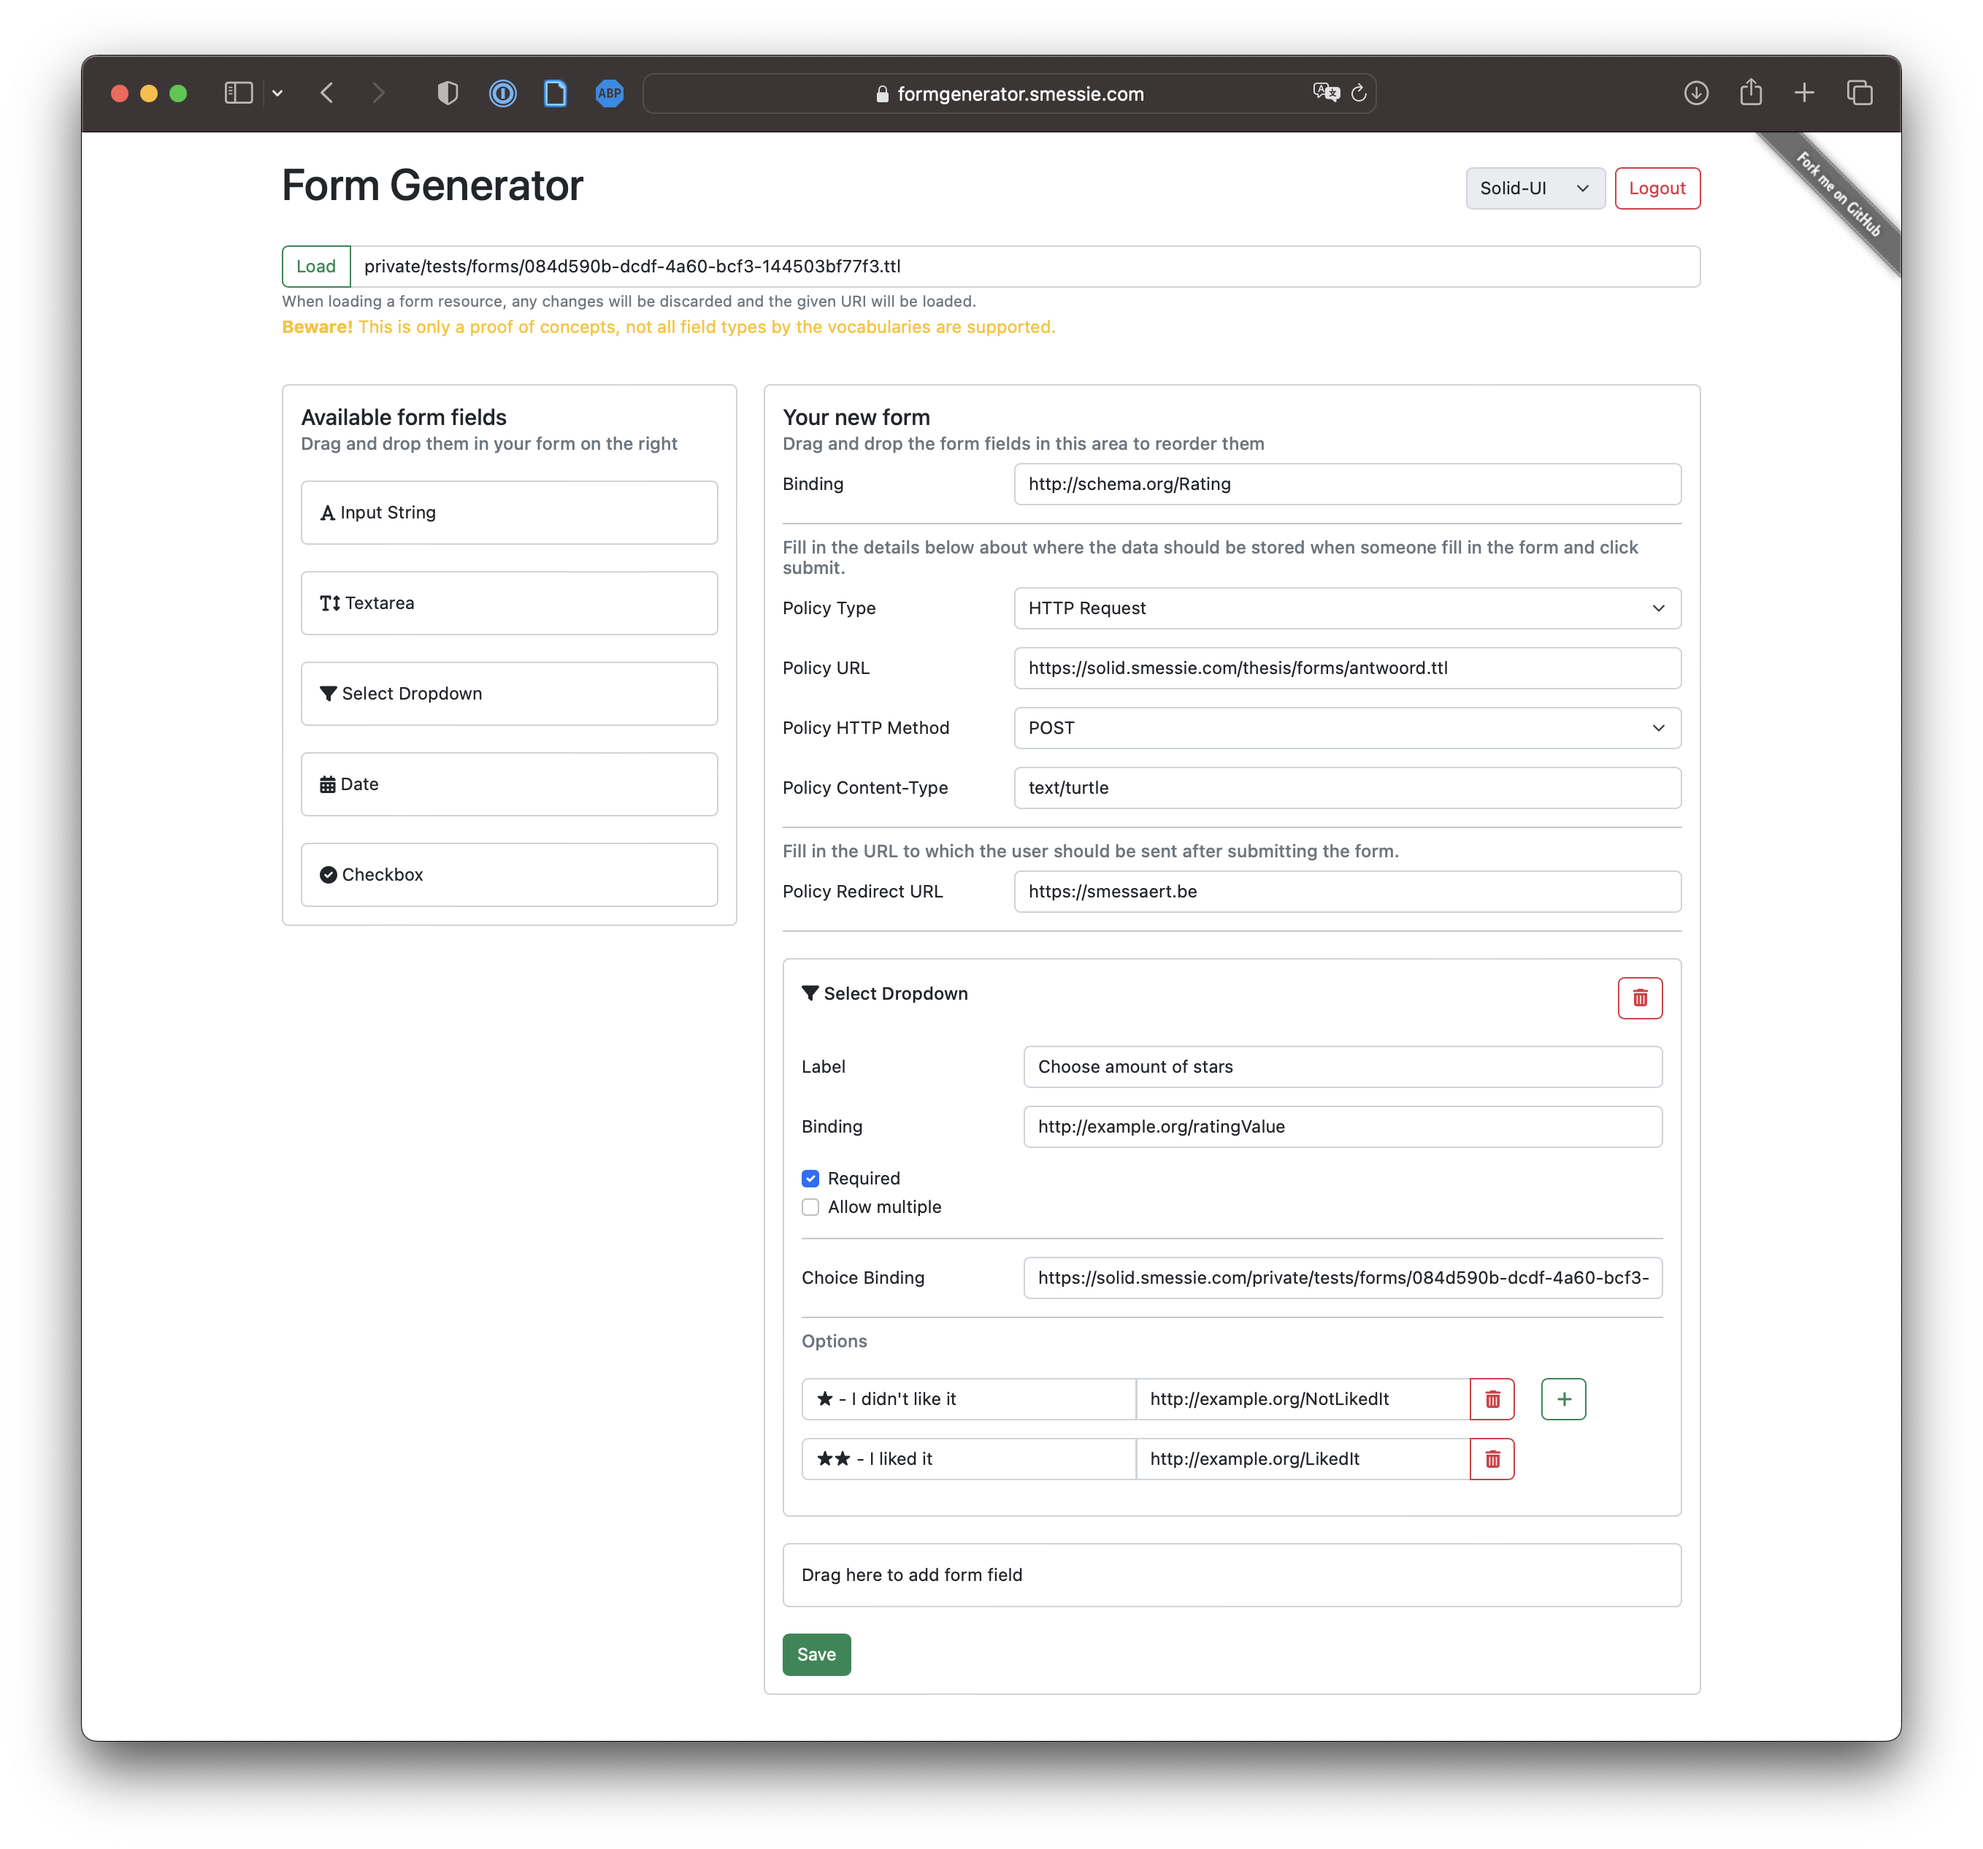
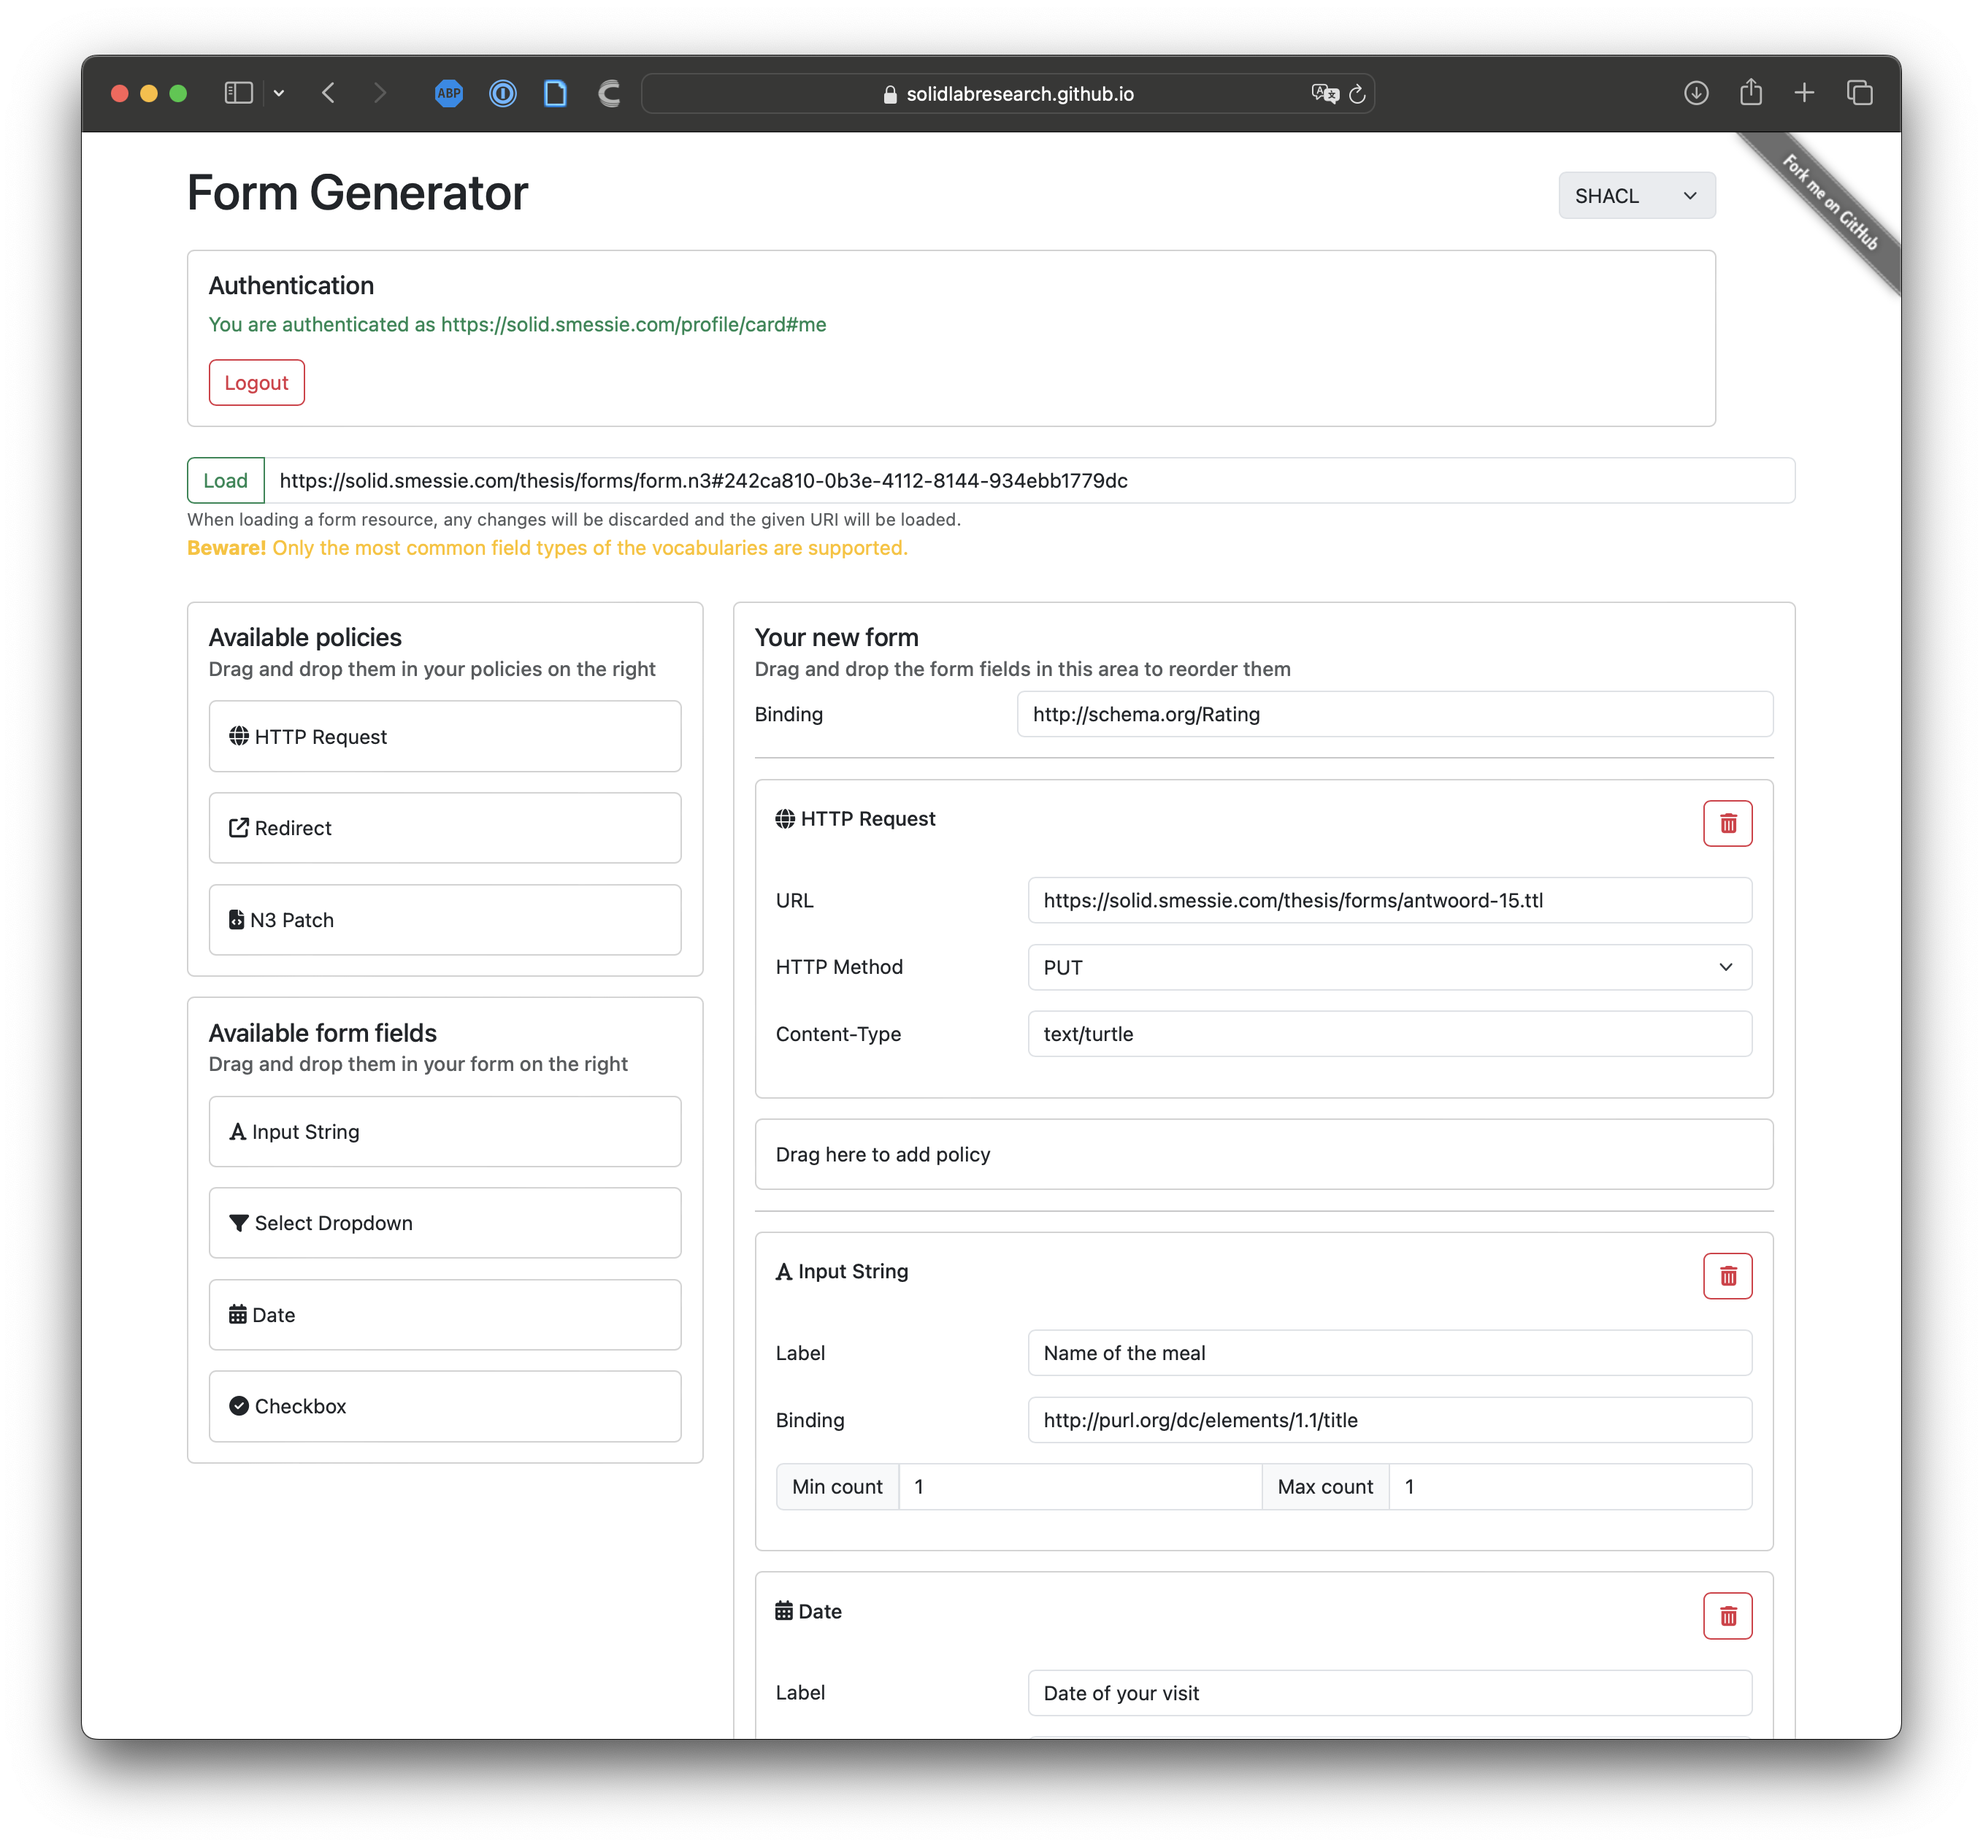
Add screenshots again

diff --git a/content/implementation.md b/content/implementation.md
@@ -9,9 +9,16 @@ The FormRenderer application and FormCli application are two applications that r
 {:#implementation-formgenerator}
 
 The first application in the pipeline generates the declarative form description.[^ImplementationFormGenerator]
-The live version[^ImplementationFormGenerator] demonstrates how form developers can define policies and form fields using a drag-and-drop interface.
+In [](#fig:FormGenerator) a screenshot of the implemented application can be seen, showing how form developers can define policies and form fields using a drag-and-drop interface.
 
 [^ImplementationFormGenerator]: The FormGenerator source code can be found at [https://w3id.org/DFDP/FormGenerator/source](https://w3id.org/DFDP/FormGenerator/source) and the live version at [https://w3id.org/DFDP/FormGenerator/app](https://w3id.org/DFDP/FormGenerator/app).
+
+<figure id="fig:FormGenerator" class="halfwidth">
+ <img src="img/FormGenerator.png" alt="[Screenshot of FormGenerator application]" />
+ <figcaption markdown="block">
+ Implemented FormGenerator application.
+ </figcaption>
+ </figure>
 
 Describing footprints requires a rule and a policy language.
 As rule language, [Notation3 (N3)](cite:cites n3) is used.
@@ -73,8 +80,16 @@ Example of N3 rule describing HTTP request policy to be executed on the form sub
 
 ### FormRenderer and FormCli
 
+<figure id="fig:FormRenderer" class="halfwidth">
+ <img src="img/FormRenderer.png" alt="[Screenshot of FormRenderer application]" />
+ <figcaption markdown="block">
+ Implemented FormRenderer application.
+ </figcaption>
+</figure>
+
 The next application in the pipeline renders the declarative form description and lets the user fill out that form.
 We implemented two versions in two different viewing environments to prove that the display part of the form description is independent of the viewing environment.[^ImplementationFormRenderer] [^ImplementationFormCli]
+The FormRenderer application, as shown in the screenshot in [](#fig:FormRenderer), functions in the Web browser.
 The FormCli application operates as a command-line application, allowing usage without a GUI.
 The form questions are prompted to the user one after the other.
 While the FormRenderer application supports authenticating with a Solid identity provider, authentication is not implemented in the FormCli application as the Solid protocol lacks proper authentication for command-line applications.
